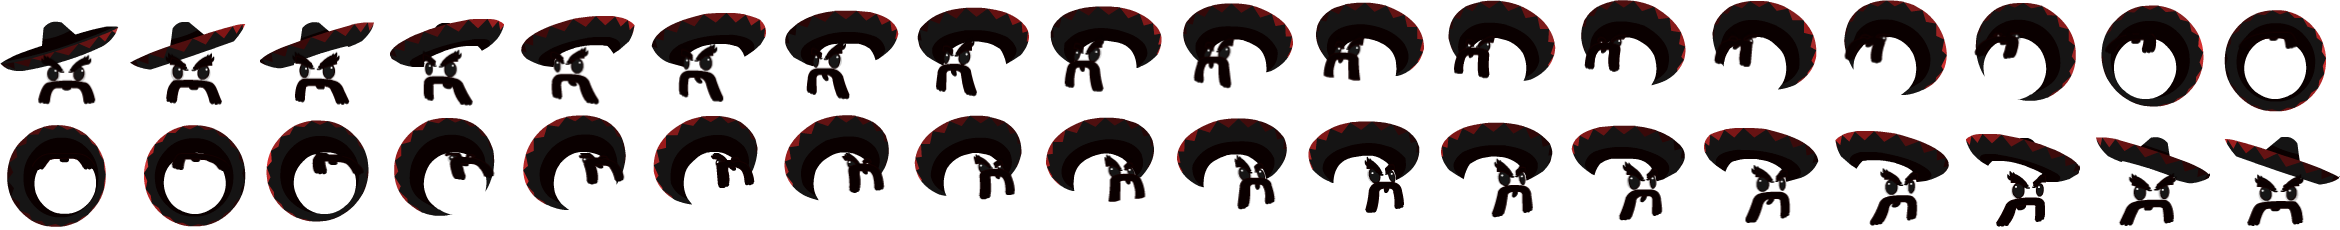
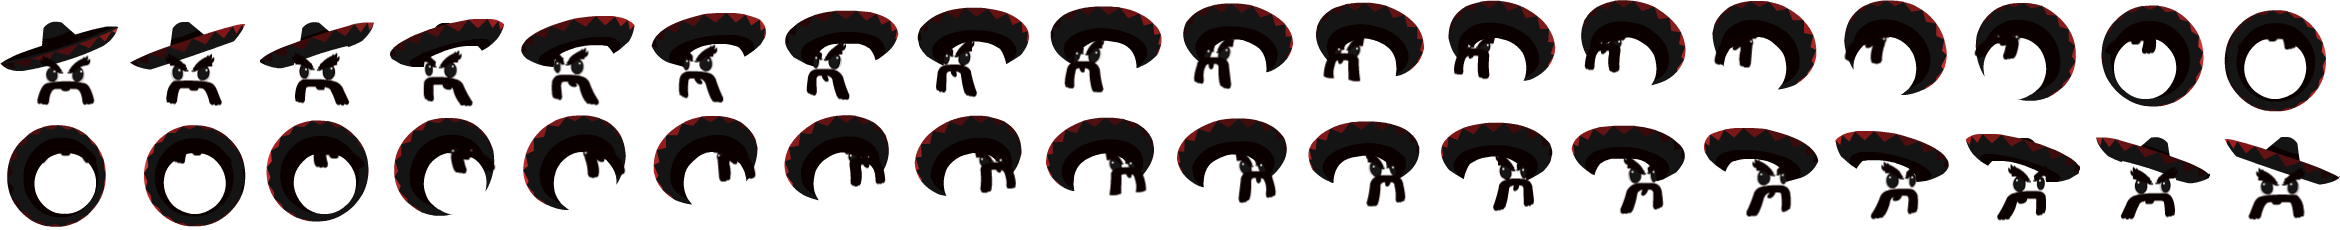
Fixed flicker due to idle
Stun animation now goes away :P

diff --git a/src/AI/PlayerInputController.java b/src/AI/PlayerInputController.java
@@ -71,7 +71,7 @@ public class PlayerInputController extends iAIController implements iEventListen
     String mSkinRef = null;
     private StickShake mLeftStickShake, mRightStickShake;
     int actionTimer = 0, actionDelay = 10;
-    int idleTimer = 0, idleDelay = 0;
+    int idleTimer = 0, idleDelay = 60;
     float mLeftStickValueThisFrame = 0.0f;
     float mRightStickValueThisFrame = 0.0f;
     private int mGrabImmunityTimer;
@@ -153,45 +153,43 @@ public class PlayerInputController extends iAIController implements iEventListen
         if (mGrabImmunityTimer != 0)
             mGrabImmunityTimer--;
         mLeftStickValueThisFrame = mRightStickValueThisFrame = 0.0f;
-        if(idleTimer <= -1)
-            mEntity.stopIdle();
-        if (mStunTimer != 0)
+        if (mStunTimer > 0)
             mStunTimer--;
         actionTimer++;
         mTongueState.tick(mEntity);
         ((PlayerEntity)mEntity).setDirection(mPlayerDir);
         idleTimer++;
-        if(mEntity.isIdle() && mSkinRef.equals("mexican"))
+        if(mEntity.isIdle() && idleTimer >= idleDelay && mSkinRef.equals("mexican") )
         {
-            if(idleTimer >= idleDelay)
+            if(mPlayerDir.x < 0) //looking left
             {
-                if(mPlayerDir.x < 0) //looking left
+                if(!mEntity.mSkin.isAnimating("idle_burp2"))
                 {
-                    if(!mEntity.mSkin.isAnimating("idle_burp2"))
-                    {
-                        //ensure other animations are deactivated
-                        mEntity.mSkin.deactivateSubSkin(mSkinRef+"_"+mFaceDirAnim);
-                        mEntity.mSkin.activateSubSkin("idle_burp2", false, 1.0f);
-                        mEntity.mSkin.restart();
-                    }
+                    //ensure other animations are deactivated
+                    mEntity.mSkin.deactivateSubSkin(mSkinRef+"_"+mFaceDirAnim);
+                    mEntity.mSkin.activateSubSkin("idle_burp2", false, 1.0f);
+                    mEntity.mSkin.restart();
                 }
-                else
-                {
-                    if(!mEntity.mSkin.isAnimating("idle_burp2_right"))
-                    {
-                        //ensure other animations are deactivated
-                        mEntity.mSkin.deactivateSubSkin(mSkinRef+"_"+mFaceDirAnim);
-                        mEntity.mSkin.activateSubSkin("idle_burp2_right", false, 1.0f);
-                        mEntity.mSkin.restart();
-                    }
-                }
-                idleDelay = rand.nextInt(360) + 180; //min 5 second
-                idleTimer = 0;
             }
+            else
+            {
+                if(!mEntity.mSkin.isAnimating("idle_burp2_right"))
+                {
+                    //ensure other animations are deactivated
+                    mEntity.mSkin.deactivateSubSkin(mSkinRef+"_"+mFaceDirAnim);
+                    mEntity.mSkin.activateSubSkin("idle_burp2_right", false, 1.0f);
+                    mEntity.mSkin.restart();
+                }
+            }
+            
         }
         else //idle animation overrides all others
         {
-            idleTimer = 0;
+            if(idleTimer >= idleDelay)
+            {
+                idleTimer = 0;
+                idleDelay = rand.nextInt(360) + 180; //2-5 seconds
+            }
             mEntity.mSkin.deactivateSubSkin("idle_burp2");
             mEntity.mSkin.deactivateSubSkin("idle_burp2_right");
             if(mEntity.isDead())
@@ -212,6 +210,10 @@ public class PlayerInputController extends iAIController implements iEventListen
                 mEntity.mSkin.deactivateSubSkin(mSkinRef+"Open_"+mFaceDirAnim);
                 mEntity.mSkin.activateSubSkin(mSkinRef+"_"+mFaceDirAnim, false, 0.0f);
             }
+        }
+        if(mStunTimer <= 0)
+        {
+            mEntity.mSkin.deactivateSubSkin("pea_stun_large");
         }
     }
     
@@ -324,7 +326,6 @@ public class PlayerInputController extends iAIController implements iEventListen
             ((PlayerEntity)mEntity).stopIdle();
         if (mStunTimer <= 0)
         {
-            mEntity.mSkin.deactivateSubSkin("pea_stun_large");
             if (_event.getType().equals("RightStickEvent"))
             {
                 RightStickEvent event = (RightStickEvent)_event;

diff --git a/src/Entities/AIEntityState.java b/src/Entities/AIEntityState.java
@@ -235,11 +235,6 @@ class AIEntityState
             }
             case eStanding:
             {
-                if(mTimer > 180) //3 seconds
-                {
-                    changeState(State.eIdle);
-                    update();
-                }
                 if (mContactCount == 0)
                 {
                     changeState(State.eFalling);
@@ -257,6 +252,11 @@ class AIEntityState
                 {
                     changeState(State.eIce);
                 }
+                else if(mTimer > 180) //3 seconds
+                {
+                    changeState(State.eIdle);
+                    update();
+                }
                 break;
             }
             case eSwimming:
@@ -270,11 +270,6 @@ class AIEntityState
             }
             case eStandingOnTar:
             {
-                if(mTimer > 180) //3 seconds
-                {
-                    changeState(State.eIdle);
-                    update();
-                }
                 if (mTarCount == 0)
                 {
                     changeState(State.eStillCoveredInTar);
@@ -284,26 +279,31 @@ class AIEntityState
                 {
                     changeState(State.eSwimming);
                 }
-                break;
-            }
-            case eStillCoveredInTar:
-            {
-                if(mTimer > 180) //3 seconds
+                else if(mTimer > 180) //3 seconds
                 {
                     changeState(State.eIdle);
                     update();
                 }
+                break;
+            }
+            case eStillCoveredInTar:
+            {
                 if (mTarCount != 0)
                 {
                     changeState(State.eStandingOnTar);
                 }
-                else
+                else if(mTimer <= 180) //3 seconds
                 {
                     if (mTimer == tarStickingTimer)
                     {
                         changeState(State.eFalling);
                         update();
                     }
+                }
+                else 
+                {
+                    changeState(State.eIdle);
+                    update();
                 }
                 break;
             }
